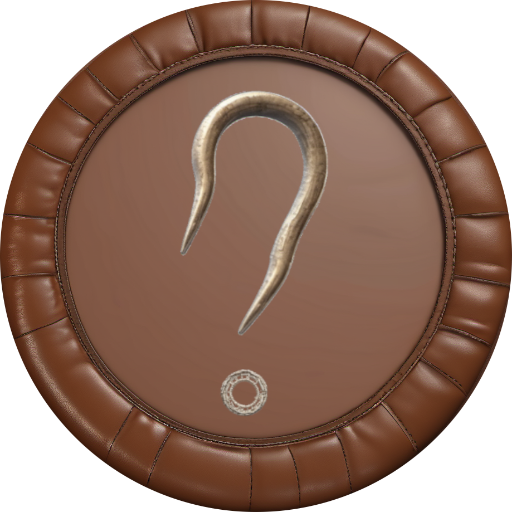
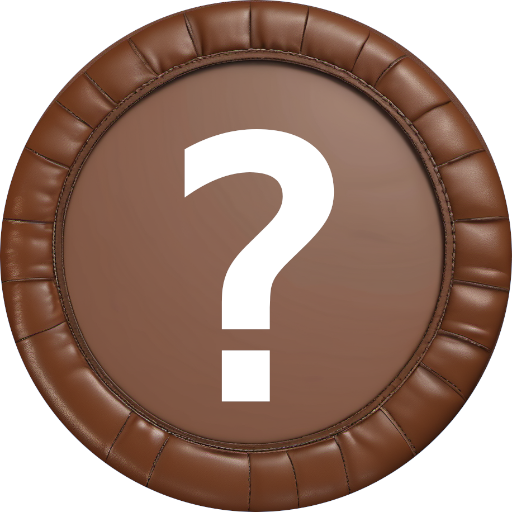
add help buttons on the game screen

Changed region(s): [[0.0, 0.0, 1.0, 1.0], [0.2812, 0.0312, 0.3125, 0.0625], [0.1875, 0.0938, 0.2188, 0.125]]

diff --git a/screens/game.py b/screens/game.py
@@ -125,6 +125,7 @@ class GameScreen(ImprovedScreen):
         self.day_camp_background: ProxyImage
 
         self.credit: int
+        self.help_mode = False
 
     def preload(self, *_):
 
@@ -194,36 +195,42 @@ class GameScreen(ImprovedScreen):
 
         super().on_pre_enter(*args)
 
-        # Load the gameplay json
-        game.load_resources()
-        game.reset_variables()
-        self.update_display_resources()
+        if not self.help_mode:
 
-        # Hide all cards
-        self.hide_cards()
+            # Load the gameplay json
+            game.load_resources()
+            game.reset_variables()
+            self.update_display_resources()
+
+            # Hide all cards
+            self.hide_cards()
 
     def on_enter(self, *args):
 
-        # Start the game music
-        music_mixer.play("game_music", loop=True)
+        if not self.help_mode:
 
-        # Launch the start day function
-        Clock.schedule_once(self.start_day)
+            # Start the game music
+            music_mixer.play("game_music", loop=True)
 
-        # Load an add
-        if platform == "android":
-            self.reward_interstitial = RewardedInterstitial(
-                REWARD_INTERSTITIAL, self.schedule_reward
-            )
-            self.reward_static = InterstitialAd(
-                INTERSTITIAL
-            )
+            # Launch the start day function
+            Clock.schedule_once(self.start_day)
 
-        # Allocate the number of credits
-        self.credit = 1
+            # Load an add
+            if platform == "android":
+                self.reward_interstitial = RewardedInterstitial(
+                    REWARD_INTERSTITIAL, self.schedule_reward
+                )
+                self.reward_static = InterstitialAd(
+                    INTERSTITIAL
+                )
 
-        # Reset the number of days
-        self.counter_day = 0
+            # Allocate the number of credits
+            self.credit = 1
+
+            # Reset the number of days
+            self.counter_day = 0
+        else:
+            self.help_mode = False
 
         return super().on_enter(*args)
 
@@ -318,11 +325,14 @@ class GameScreen(ImprovedScreen):
         When an answer is currently displayed, we'll go to the next day.
         When an event is displayed, we'll go to the answer to this answer.
         """
-        if self.is_answer:
-            self.is_answer = False
-            self.start_day()
+        if self.help_mode:
+            pass
         else:
-            self.choose_answer("down")
+            if self.is_answer:
+                self.is_answer = False
+                self.start_day()
+            else:
+                self.choose_answer("down")
 
     def start_day(self, *_):
         """
@@ -391,3 +401,13 @@ class GameScreen(ImprovedScreen):
             self.reward_static = InterstitialAd(
                 INTERSTITIAL
             )
+
+    def display_factions_help(self):
+        self.help_mode = True
+        self.manager.get_screen("help").help_mode = "factions_help"
+        self.manager.current = "help"
+
+    def display_resources_help(self):
+        self.help_mode = True
+        self.manager.get_screen("help").help_mode = "resources_help"
+        self.manager.current = "help"

diff --git a/screens/opening.py b/screens/opening.py
@@ -65,7 +65,8 @@ class OpeningScreen(ImprovedScreen):
             SettingsScreen,
             GameOverScreen,
             AchievementsScreen,
-            TutorialScreen)
+            TutorialScreen,
+            HelpScreen)
 
         kv_files = [file for file in os.listdir(
             "screens") if file.endswith(".kv")]
@@ -78,6 +79,7 @@ class OpeningScreen(ImprovedScreen):
         self.GameOverScreen = GameOverScreen
         self.AchievementsScreen = AchievementsScreen
         self.TutorialScreen = TutorialScreen
+        self.HelpScreen = HelpScreen
 
         Clock.schedule_once(self.load_other_screens)
 
@@ -99,6 +101,8 @@ class OpeningScreen(ImprovedScreen):
         self.manager.add_widget(achievements_screen)
         tutorial_screen = self.TutorialScreen(name="tutorial")
         self.manager.add_widget(tutorial_screen)
+        help_screen = self.HelpScreen(name="help")
+        self.manager.add_widget(help_screen)
         # Preload screens
         Clock.schedule_once(self.manager.get_screen("game").preload)
         Clock.schedule_once(self.manager.get_screen("game_over").preload)

diff --git a/screens/help.py b/screens/help.py
@@ -1,0 +1,43 @@
+"""
+Module for the help menu.
+"""
+
+###############
+### Imports ###
+###############
+
+from kivy.properties import StringProperty
+
+from tools.path import (
+    PATH_IMAGES,
+    PATH_TEXT_FONT,
+    PATH_IMAGES_TUTORIAL
+)
+from tools.kivy_tools import (
+    ImprovedScreen
+)
+from tools.constants import (
+    USER_DATA,
+    TEXT
+)
+
+#############
+### Class ###
+#############
+
+
+class HelpScreen(ImprovedScreen):
+
+    def __init__(self, **kw):
+        super().__init__(
+            back_image_path=PATH_IMAGES + "tutorial_background.jpg",
+            font_name=PATH_TEXT_FONT,
+            **kw)
+        self.help_mode = "factions_help"
+
+    def on_pre_enter(self, *args):
+        self.ids["help_text"].text = TEXT.game[self.help_mode]
+        return super().on_pre_enter(*args)
+
+    def go_back_to_game(self):
+        self.manager.current = "game"

diff --git a/screens/__init__.py b/screens/__init__.py
@@ -23,7 +23,7 @@ from screens.game import GameScreen
 from screens.game_over import GameOverScreen
 from screens.achievements import AchievementsScreen
 from screens.tutorial import TutorialScreen
-from screens.opening import OpeningScreen
+from screens.help import HelpScreen
 
 
 ###############
